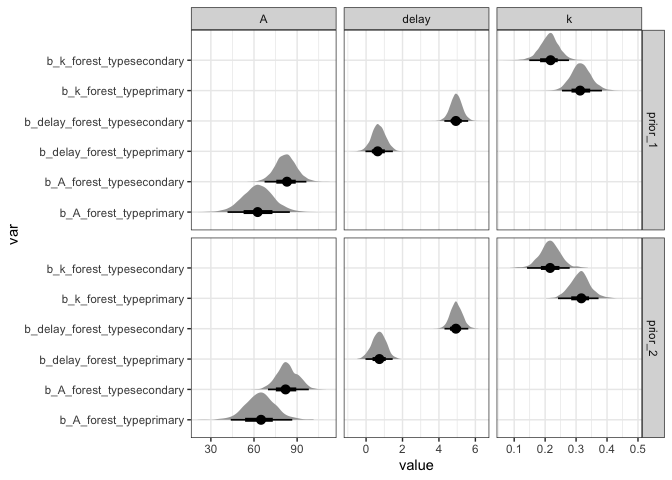
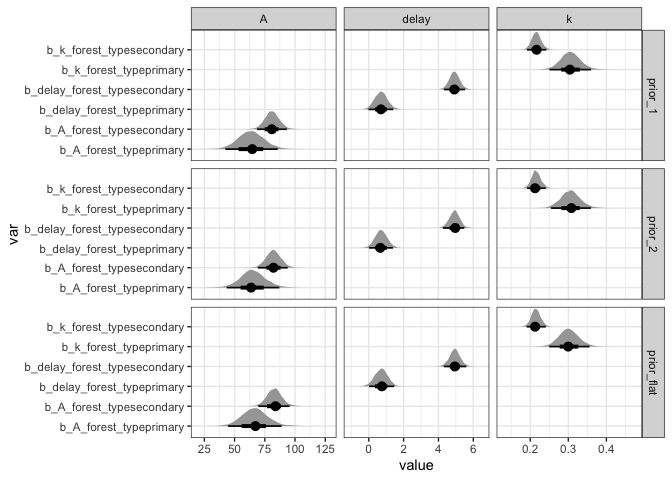
add flat prior model

diff --git a/code/notebooks/2025-01-29_sensitivity-A-param-prior.md b/code/notebooks/2025-01-29_sensitivity-A-param-prior.md
@@ -1,6 +1,6 @@
 # Prior sensitivity for *A* in the growth models
 eleanorjackson
-2025-01-29
+2025-02-05
 
 I’ve fit models with the full data using priors which [I selected
 here](./code/notebooks/2025-01-24_test-A-param-prior.md).
@@ -18,12 +18,14 @@ library("modelr")
 ```
 
 ``` r
-priors1 <-
-  readRDS(here::here("output", "models", "priors1", "ft_sp_pl_lognorm_priors.rds"))
+priors0 <-
+  readRDS(here::here("output", "models", "ft_sp_lognorm.rds"))
 
+priors1 <-
+  readRDS(here::here("output", "models", "priors1", "ft_sp_lognorm_priors.rds"))
 
 priors2 <-
-  readRDS(here::here("output", "models", "priors2", "ft_sp_pl_lognorm_priors.rds"))
+  readRDS(here::here("output", "models", "priors2", "ft_sp_lognorm_priors.rds"))
 
 my_vars <- c("b_A_forest_typeprimary", "b_A_forest_typesecondary",
              "b_delay_forest_typeprimary", "b_delay_forest_typesecondary",
@@ -34,9 +36,17 @@ my_regex <- paste0(my_vars, collapse="|")
 
 The `prior1` model uses a `lognormal(4, 1)` prior on the *A* parameter,
 and the `prior2` model uses a wider `lognormal(5, 1.2)` prior on the *A*
-parameter.
+parameter. The `prior0` model has flat priors.
 
 ``` r
+posterior_0 <-
+  priors0 %>% 
+  spread_draws(!!sym(my_regex), regex = TRUE) %>% 
+  pivot_longer(cols = all_of(my_vars), 
+               names_to = "var") %>% 
+  mutate(prior = "prior_flat") %>% 
+  select(value, var, prior)
+
 posterior_1 <-
   priors1 %>% 
   spread_draws(!!sym(my_regex), regex = TRUE) %>% 
@@ -55,7 +65,8 @@ posterior_2 <-
 ```
 
 ``` r
-bind_rows(posterior_1, 
+bind_rows(posterior_0,
+          posterior_1, 
           posterior_2) %>% 
   rowwise() %>% 
   mutate(parameter = pluck(strsplit(var,"_"),1,2)) %>% 
@@ -69,17 +80,30 @@ bind_rows(posterior_1,
 ![](figures/2025-01-29_sensitivity-A-param-prior/unnamed-chunk-4-1.png)
 
 ``` r
-posterior_summary(priors1,
+posterior_summary(priors0,
                   variable = my_vars)
 ```
 
                                    Estimate   Est.Error        Q2.5      Q97.5
-    b_A_forest_typeprimary       62.8225802 10.89794423 41.28231701 84.7068092
-    b_A_forest_typesecondary     82.1276242  7.34973294 67.85351751 96.9262241
-    b_delay_forest_typeprimary    0.6937898  0.38167435 -0.05445186  1.4538287
-    b_delay_forest_typesecondary  4.9462027  0.32875827  4.29332631  5.6014282
-    b_k_forest_typeprimary        0.3163772  0.03297143  0.25474227  0.3838579
-    b_k_forest_typesecondary      0.2136449  0.03193256  0.14625652  0.2754225
+    b_A_forest_typeprimary       66.9200320 11.16890363 45.87860788 90.3992136
+    b_A_forest_typesecondary     82.8827634  6.35714963 70.52211399 96.1902950
+    b_delay_forest_typeprimary    0.7137667  0.37247346 -0.03261414  1.4192522
+    b_delay_forest_typesecondary  4.9408014  0.32308832  4.29863546  5.5864640
+    b_k_forest_typeprimary        0.3013221  0.02700694  0.24939702  0.3555378
+    b_k_forest_typesecondary      0.2151411  0.01263443  0.19065686  0.2405485
+
+``` r
+posterior_summary(priors1,
+                  variable = my_vars)
+```
+
+                                   Estimate   Est.Error         Q2.5      Q97.5
+    b_A_forest_typeprimary       63.6841510 11.06554853 42.388204379 85.7291005
+    b_A_forest_typesecondary     80.9789038  6.27784215 68.742295952 93.5866803
+    b_delay_forest_typeprimary    0.7041777  0.36627534  0.009506281  1.4374545
+    b_delay_forest_typesecondary  4.9194741  0.30619053  4.319232144  5.5320558
+    b_k_forest_typeprimary        0.3061876  0.02748409  0.253359408  0.3629812
+    b_k_forest_typesecondary      0.2163905  0.01288186  0.191983258  0.2430702
 
 ``` r
 posterior_summary(priors2,
@@ -87,11 +111,11 @@ posterior_summary(priors2,
 ```
 
                                    Estimate   Est.Error        Q2.5      Q97.5
-    b_A_forest_typeprimary       64.4867308 10.58541199 43.85002234 86.5614183
-    b_A_forest_typesecondary     83.2242381  7.29513389 69.13053755 97.6747760
-    b_delay_forest_typeprimary    0.7069788  0.38079823 -0.06509532  1.4414730
-    b_delay_forest_typesecondary  4.9565200  0.33139681  4.31238040  5.6207911
-    b_k_forest_typeprimary        0.3135577  0.03281867  0.24857951  0.3828072
-    b_k_forest_typesecondary      0.2162173  0.03421288  0.14749496  0.2858273
+    b_A_forest_typeprimary       65.0374273 10.82556474 43.58695564 87.0136344
+    b_A_forest_typesecondary     82.1164545  6.29362181 69.98378559 94.6351305
+    b_delay_forest_typeprimary    0.7086997  0.35154776  0.02833159  1.4161811
+    b_delay_forest_typesecondary  4.9201186  0.31103886  4.30531896  5.5260121
+    b_k_forest_typeprimary        0.3059339  0.02693128  0.25525593  0.3606196
+    b_k_forest_typesecondary      0.2156519  0.01253690  0.19183232  0.2409079
 
 Look very similar to me!
